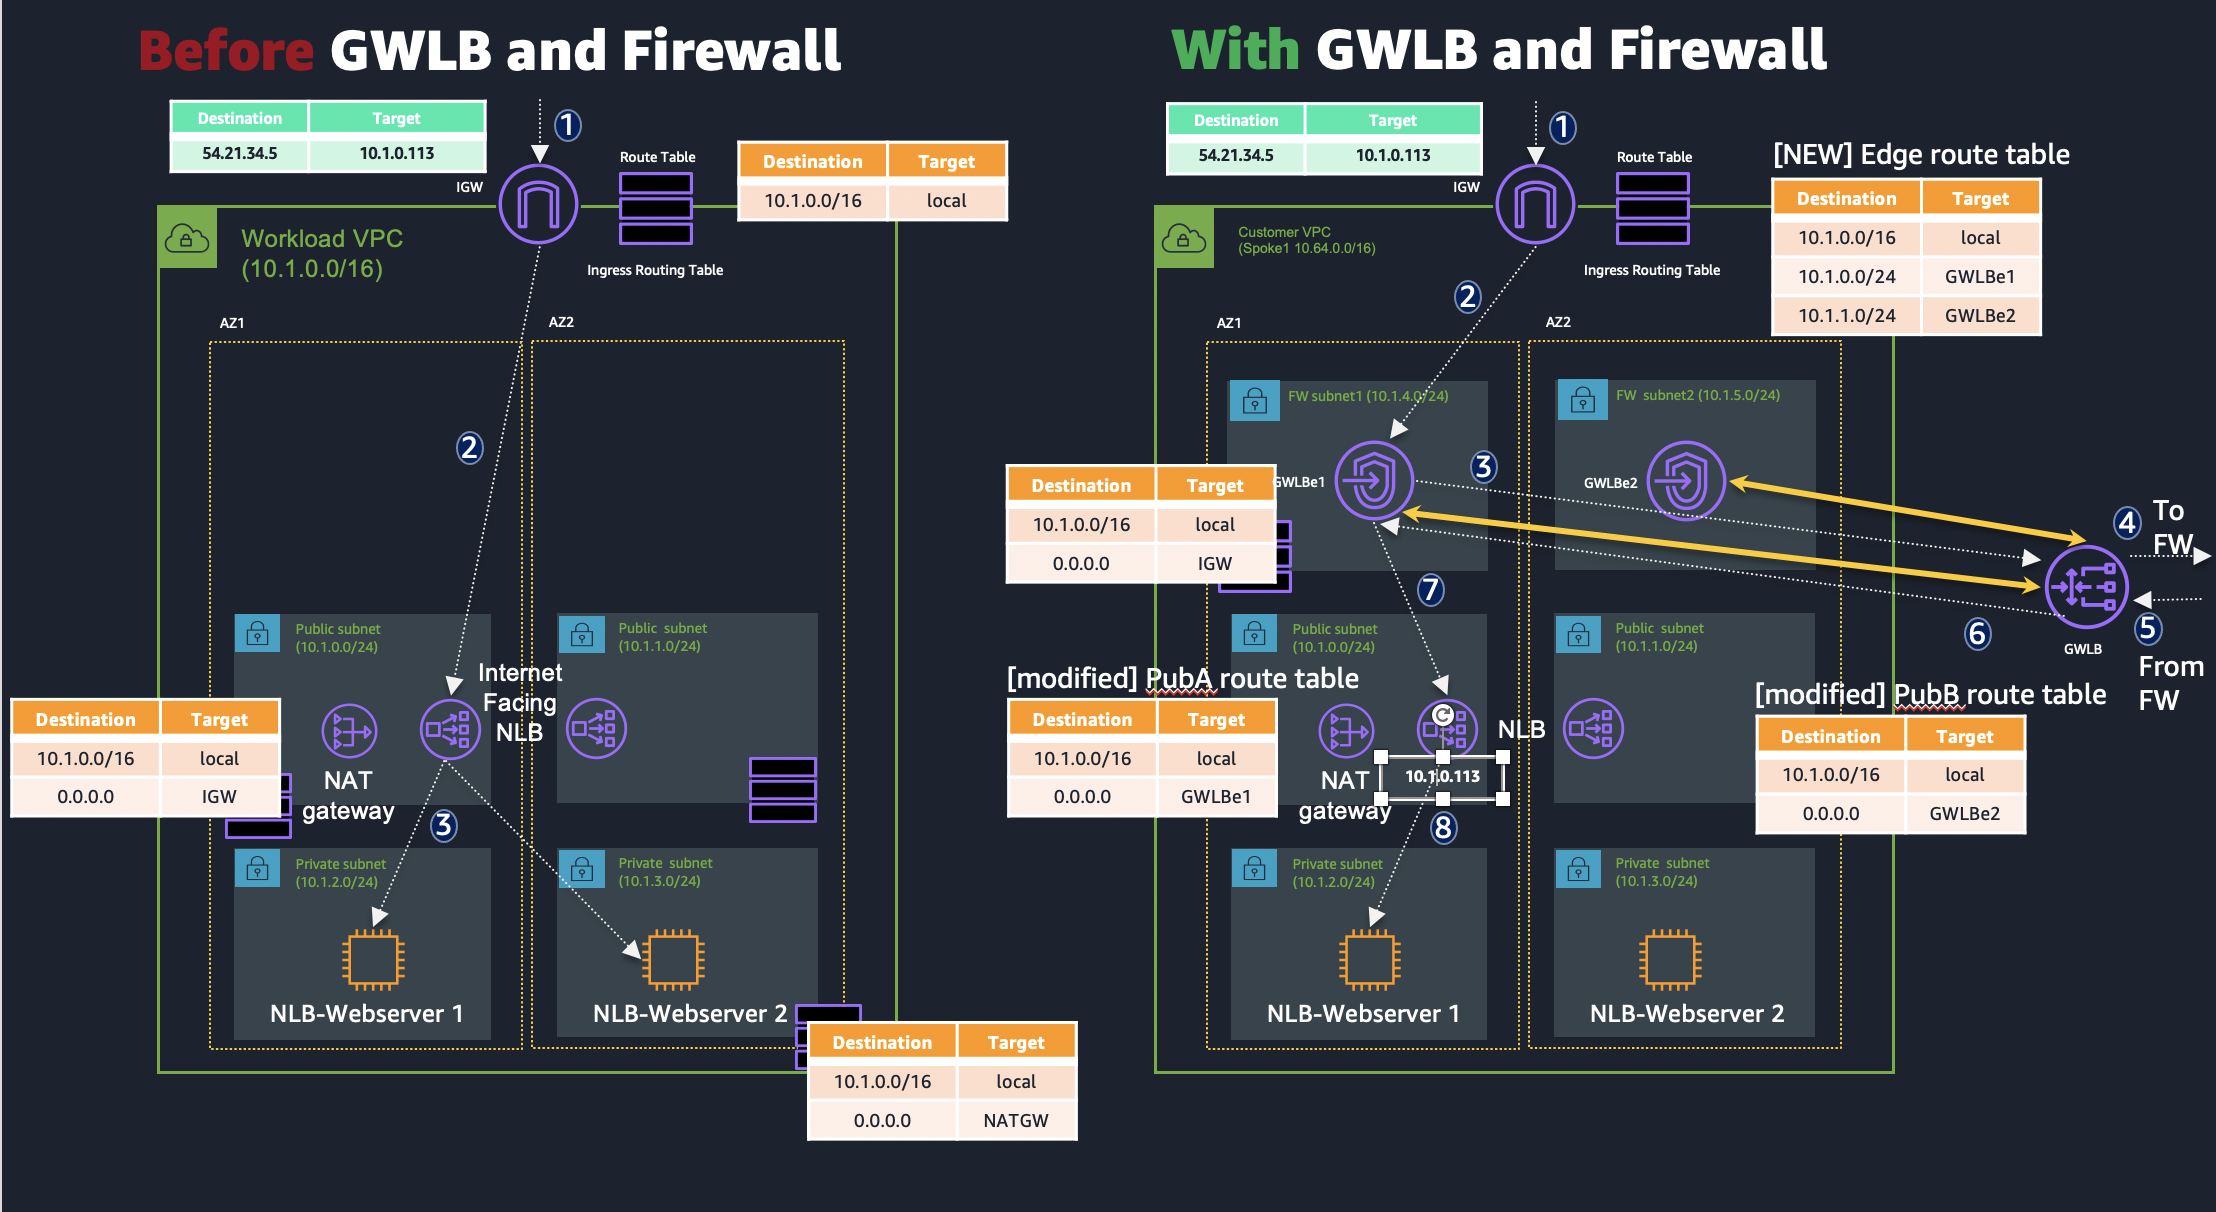
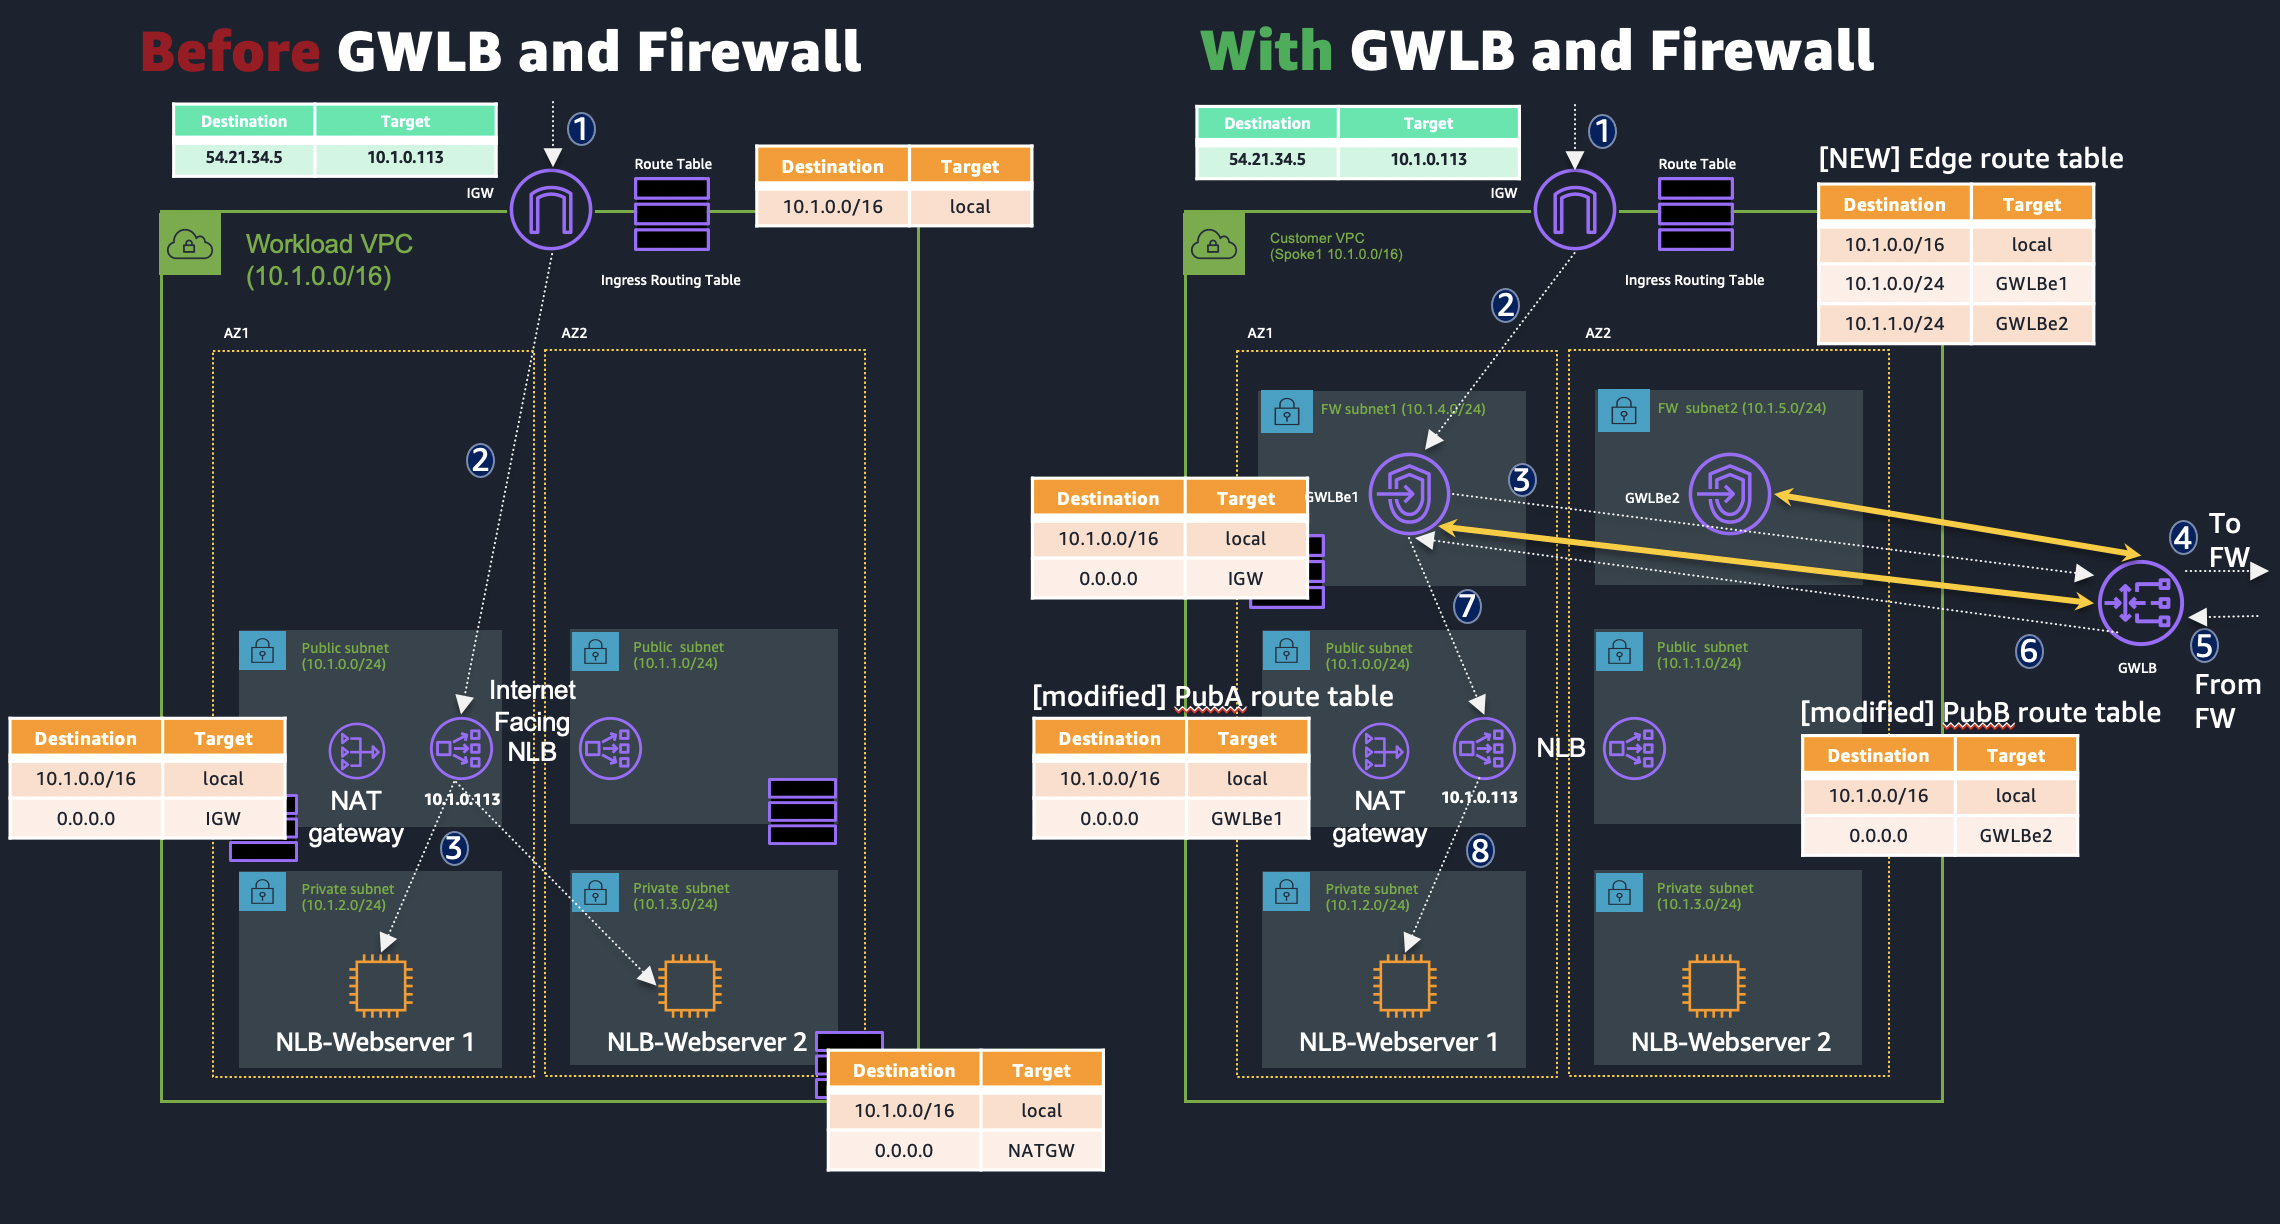
updated diagrams, removing 10.64 and 10.10 addresses

diff --git a/website/content/Lab2-internettoVPC/70-deployGWLBe/72-VPC Routing.md b/website/content/Lab2-internettoVPC/70-deployGWLBe/72-VPC Routing.md
@@ -9,7 +9,7 @@ weight = 72
 We will now have traffic route though out new GWLB Endpoints in **VPC1** to connect to our **Endpoint Service** we just created. In order to have Availability Zone independce, we need to make sure traffic destined for Public Subnet in AZ1 use the GWLB Endpoint in AZ1. This provides workloads  Availability Zone redunandy in a subnet of each Availability Zone we have subnets for this VPC.
 _Remember the VPC Endpoints are created in the VPC that will send traffic to the appliances. In this case firewalls_.
 
-![Endpoint Service](/images/gwlb-VPC1-routingdesign.png)
+![Endpoint Service](/images/lab2-vpc1-routes-diagram.png)
 
 Two things to note:
 - A new route table will be **Edge Associated** to the **IGW**. For the CIDR of each **Public** subnet, we have a route entry pointing to a GWLB Endpoint in the same AZ.

diff --git a/website/content/Lab2-internettoVPC/_index.md b/website/content/Lab2-internettoVPC/_index.md
@@ -6,7 +6,7 @@ weight = 30
 
 ## Lab 2 Internet to VPC Firewall
 
-Lets protect our internet facing applications with the Palo Alto Firewalls.. Using **Network Load Balancer** not only provides availablity and scalability to our application, but we can use it to share our application to other VPCs via **AWS Privatelink**.
+Let's protect our internet facing applications with the Palo Alto Firewalls.. Using **Network Load Balancer** not only provides availablity and scalability to our application, but we can use it to share our application to other VPCs via **AWS Privatelink**.
 
 ### VPC 1 Before and After
 ![VPC1 Diagrams](/images/lab2-before-after-VPC1.png)

diff --git a/website/content/Lab2-internettoVPC/70-deployGWLBe/71-CreateEndpoint.md b/website/content/Lab2-internettoVPC/70-deployGWLBe/71-CreateEndpoint.md
@@ -9,7 +9,7 @@ weight = 71
 We will now create a GWLB Endpoint in **VPC1** to connect to our **Endpoint Service** we just created. This will create Elastic Network Interfaces in a subnet of each Availability Zone we have subnets for this VPC.
 _Remember the VPC Endpoints are created in the VPC that will send traffic to the appliances. In this case firewalls_.
 
-![Endpoint Service](/images/gwlb-internetFW-design.png)
+![Endpoint Service](/images/lab2-gwlbe-diagram.png)
 
 ### Step-by-step
 

diff --git a/website/content/Lab2-internettoVPC/80-Test Connecttivity.md b/website/content/Lab2-internettoVPC/80-Test Connecttivity.md
@@ -8,7 +8,7 @@ weight = 79
 
 Now if we have complete all the steps we should be able to test connectivity across the Palo Altos. You will test using your browser as you did when we first deployed the application using **Cloudformation**
 
-![Flow Diagram](/images/vpc1-fwflow-diagram.png)
+![Flow Diagram](/images/lab2-test-diagram.png)
 
 ### Step-by-step
 

diff --git a/website/content/Lab2-internettoVPC/70-deployGWLBe/70-CreateEndpointService.md b/website/content/Lab2-internettoVPC/70-deployGWLBe/70-CreateEndpointService.md
@@ -1,5 +1,5 @@
 +++
-title = "Create VPC Endpoint Service"
+title = "Create GWLB Endpoint Service"
 chapter = false
 weight = 70
 +++
